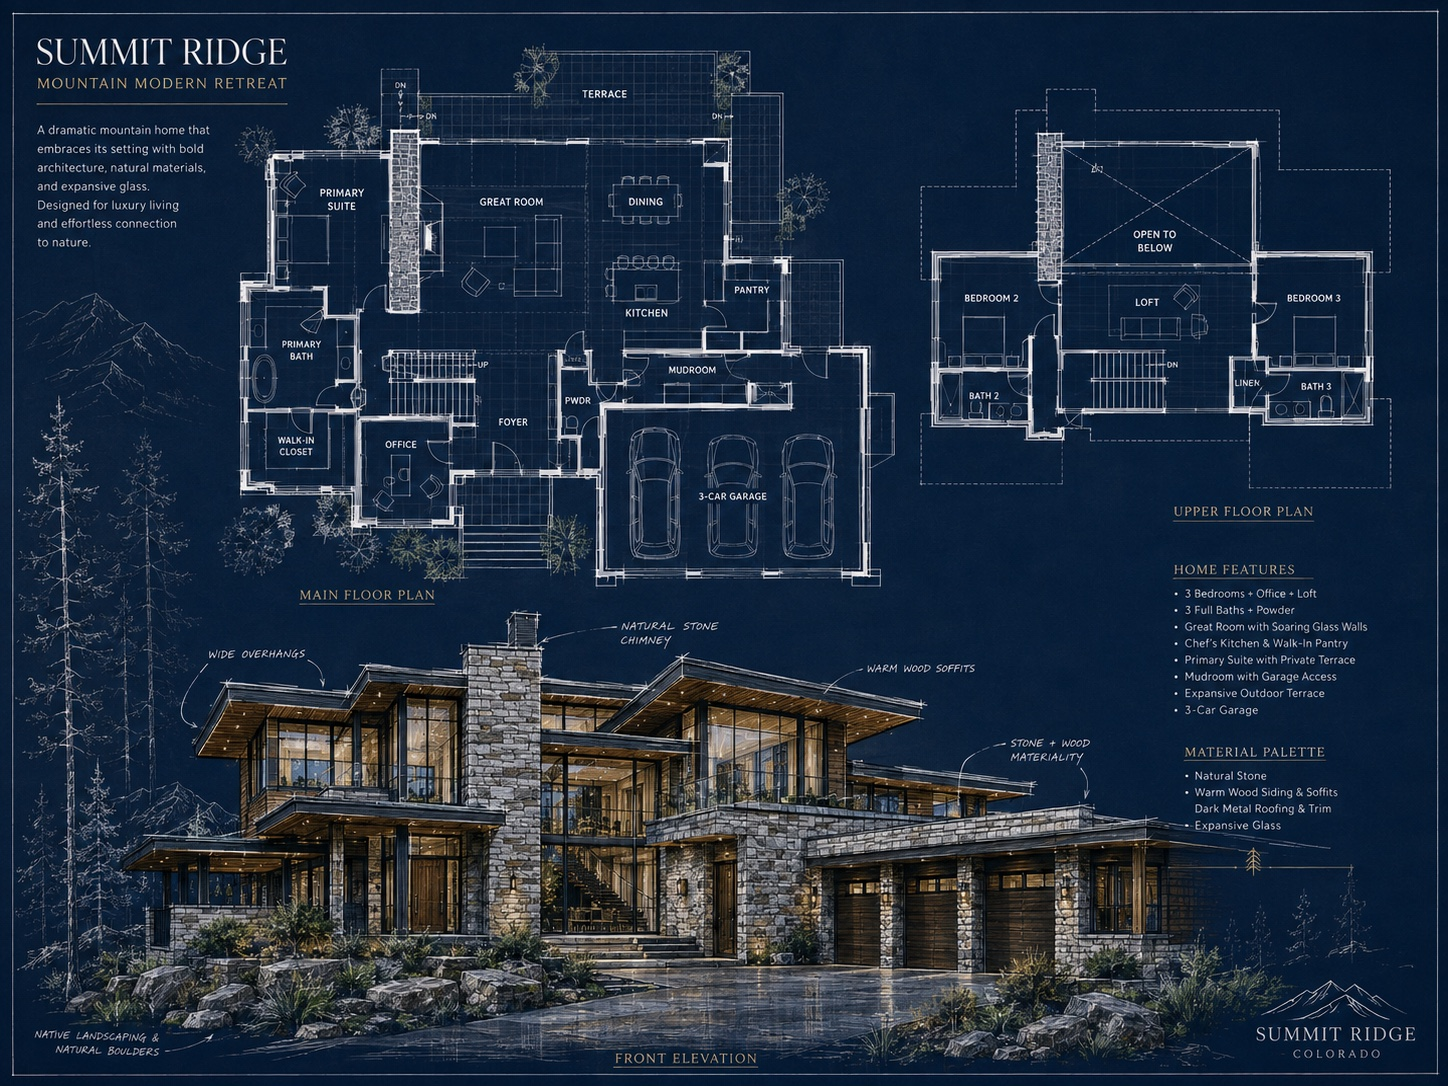
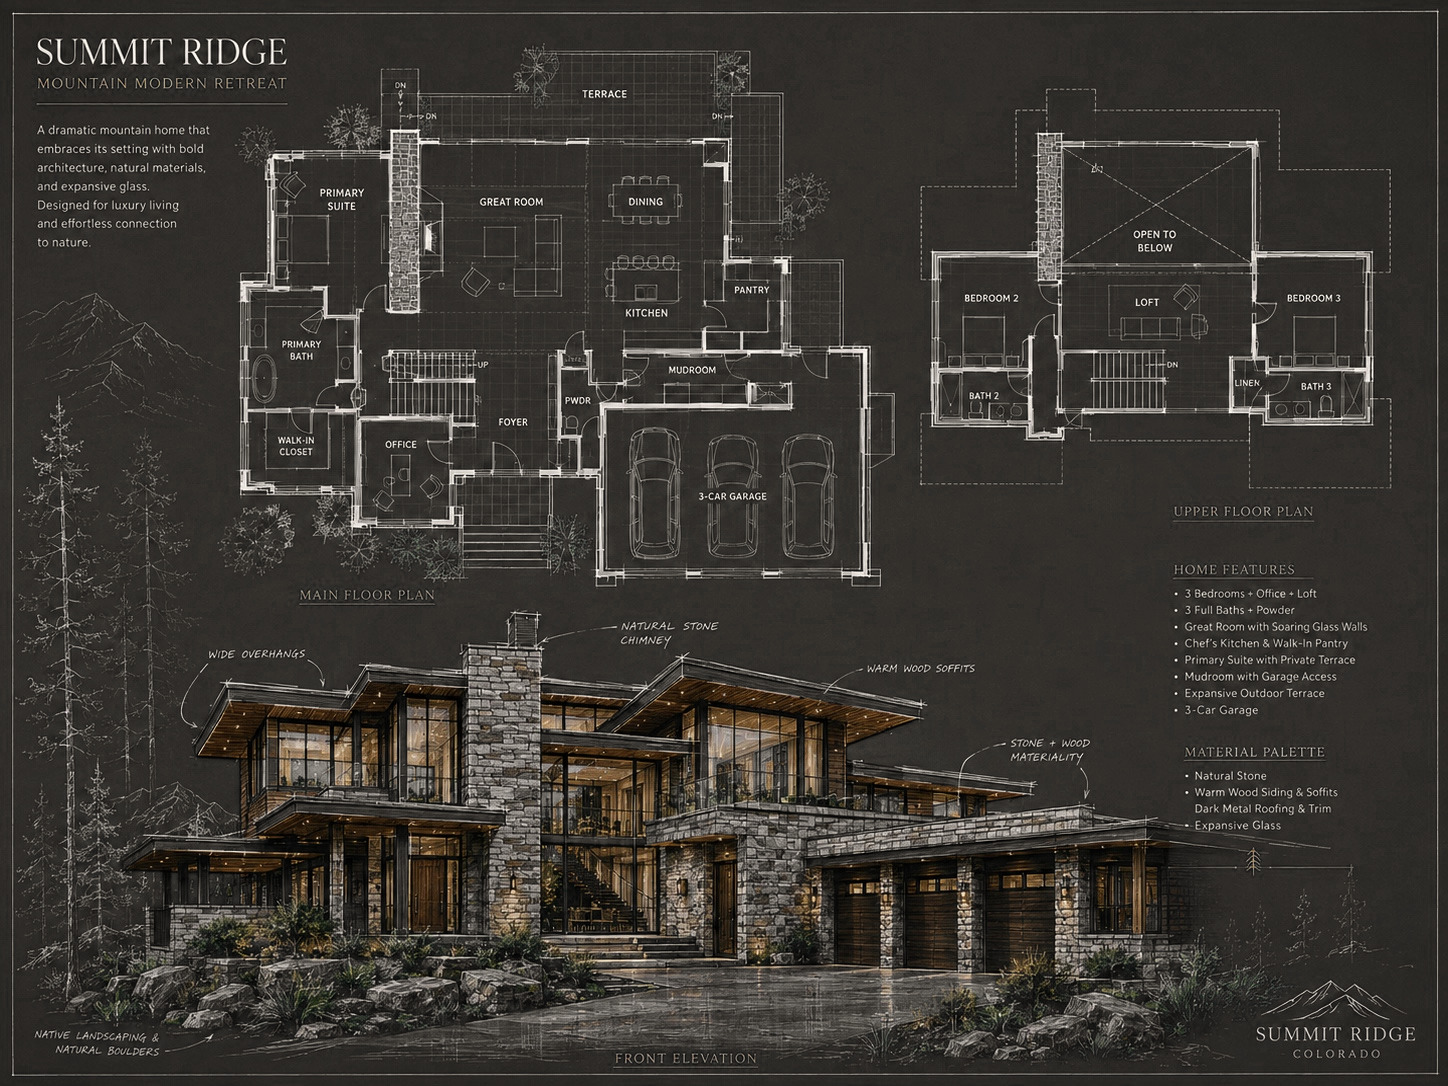
Re-render the build artwork in charcoal and retitle the tablet
The concept board is redrawn on the band's own charcoal instead of navy:
only blue hues are desaturated, so the gold section labels and the warm
wood and stone in the elevation keep their colour. It now matches
#2A2723 exactly, so the artwork bleeds into the band again and the CSS
filter standing in for this comes off.

The tablet cover reads "ROQ FRAMEWORK" over the reconstructed panel
texture, in place of the old "GROUNDBREAKABLE BUILD PLAN".

diff --git a/build.html b/build.html
@@ -320,9 +320,8 @@
   }
 
   /* ---------- Concept board ----------
-     A warm neutral off the ROQ palette rather than the artwork's own navy.
-     The board art is still rendered on deep navy, so it reads as a panel on
-     the band instead of bleeding into it. */
+     The board art is drawn on the same charcoal the band uses, so the
+     artwork bleeds into it with no visible seam. */
 
   .board {
     background: #2A2723;
@@ -360,14 +359,10 @@
     margin: clamp(32px, 4vw, 52px) 0 0;
   }
 
-  /* The source art is drawn on deep navy. Pulling the blue out of it here
-     keeps the band warm-neutral without re-rendering the artwork; swap this
-     for a grey-ground render of the board and the filter can come off. */
   .board-figure img {
     display: block;
     width: 100%;
     height: auto;
-    filter: grayscale(0.82) sepia(0.22) brightness(1.06) contrast(0.98);
   }
 
   .board-caption {
